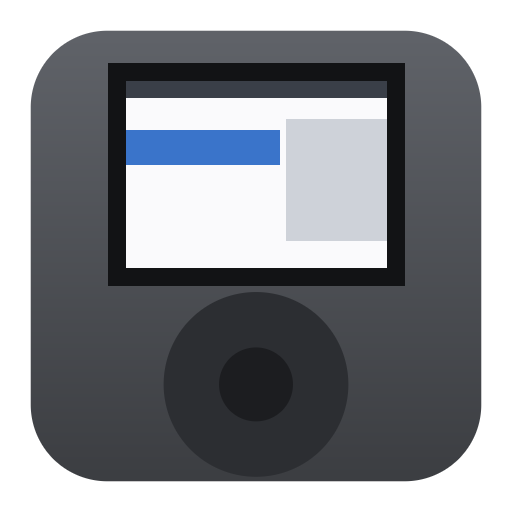
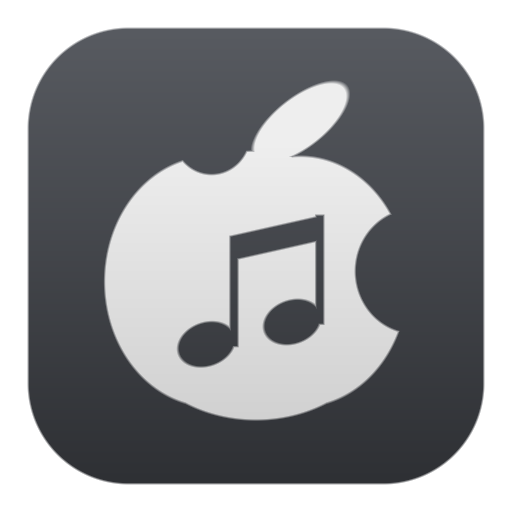
feat: novo icone (maca com nota musical) e exclusao de musica individual
Icone: silhueta de maca com mordida e folha, com a nota musical vazada no
centro sobre o fundo grafite do aparelho. Gerado por codigo (campos de
distancia com antialiasing), sem dependencia de editor grafico. Aplicado
nos quatro tamanhos, incluindo o apple-touch-icon de 180 px usado na tela
de inicio do iPhone.

Exclusao de faixa: segurar o botao central sobre uma musica agora abre um
menu de acoes ("Adicionar a Lista Rapida" e "Apagar Musica") em vez de
adicionar direto a playlist. A exclusao passa por confirmacao, remove o
arquivo e a faixa do IndexedDB, tira a musica de todas as playlists e
reconstroi a lista mantendo a posicao da selecao.

player.forgetTrack() retira a faixa da fila em execucao: se for a que esta
tocando, a reproducao para, a URL de objeto e liberada e a tela Tocando
Agora volta ao estado vazio; se nao for, a fila e reconstruida preservando
a musica atual.

Verificado no Chromium com gestos reais: toque longo abre o menu, cancelar
volta sem apagar, confirmar remove a faixa da lista e do banco, a selecao
e mantida, o player para e a mudanca persiste apos recarregar. Testes do
parser de tags e o teste ponta a ponta original seguem passando.

Claude-Session: https://claude.ai/code/session_016mkjsLRngwnqNpgZttN2s1

diff --git a/js/nav.js b/js/nav.js
@@ -59,6 +59,24 @@ export function pop() {
   return true;
 }
 
+/** Profundidade atual da pilha (a tela do topo esta nesta posicao). */
+export const depth = () => stack.length;
+
+/** Descarta telas ate a profundidade alvo sem remontar (uso interno). */
+function popSilent(target) {
+  while (stack.length > Math.max(1, target)) {
+    const v = stack.pop();
+    v.root.remove();
+    if (v.destroy) v.destroy();
+  }
+}
+
+/** Volta ate a profundidade alvo e remonta a tela que ficou no topo. */
+export function popTo(target) {
+  popSilent(target);
+  if (stack.length) mount(current());
+}
+
 export function home() {
   while (stack.length > 1) {
     const v = stack.pop();
@@ -317,26 +335,70 @@ export function buildSongsMenu() {
  */
 function buildTrackList(ids, title, opts) {
   const o = opts || {};
-  const items = ids.map((id, i) => {
+  const live = ids.filter((id) => lib.getTrack(id));
+
+  const items = live.map((id, i) => {
     const t = lib.getTrack(id);
-    if (!t) return null;
     return {
       label: t.title,
       value: o.showArtist ? t.artist : fmtTime(t.duration),
       num: o.numbered ? (t.trackNo || i + 1) : undefined,
       playing: player.state.trackId === id,
       preview: { art: t.albumKey, t1: t.title, t2: `${t.artist} · ${t.album}` },
-      onSelect: () => playTracks(ids, i, title),
-      onPlay: () => playTracks(ids, i, title),
-      onHold: () => addToOnTheGo(t),
+      onSelect: () => playTracks(live, i, title),
+      onPlay: () => playTracks(live, i, title),
+      // segurar o centro abre as acoes da faixa (a lista esta no topo agora)
+      onHold: () => push(buildTrackActions(t, live, i, title, o, depth())),
     };
-  }).filter(Boolean);
+  });
 
   return createListView({
     title, items,
+    selected: o.selected || 0,
     emptyTitle: 'Sem musicas',
     emptyText: 'Adicione musicas em Ajustes > Adicionar Musicas.',
   });
+}
+
+/* ------------------------------------------------- acoes sobre a faixa */
+
+function buildTrackActions(track, ids, idx, title, opts, listDepth) {
+  const items = [
+    {
+      label: `Adicionar a ${ONTHEGO}`,
+      onSelect: () => { addToOnTheGo(track); pop(); },
+    },
+    {
+      label: 'Apagar Musica',
+      chev: true,
+      onSelect: () => push(buildConfirm(
+        'Apagar esta musica?', 'Apagar',
+        () => removeTrackAndRefresh(track, ids, idx, title, opts, listDepth)
+      )),
+    },
+  ];
+  return createListView({ title: track.title, items, split: false });
+}
+
+/**
+ * Apaga a faixa da biblioteca e volta para a lista, ja sem ela.
+ * As telas anteriores (albuns, artistas) sao remontadas ao serem abertas
+ * de novo, e faixas ausentes sao sempre filtradas na abertura da lista.
+ */
+async function removeTrackAndRefresh(track, ids, idx, title, opts, listDepth) {
+  player.forgetTrack(track.id);
+  await lib.removeTrack(track.id);
+
+  const remaining = ids.filter((id) => id !== track.id && lib.getTrack(id));
+  if (!remaining.length) {
+    popTo(listDepth - 1);            // a lista ficou vazia: sobe um nivel
+  } else {
+    popSilent(listDepth - 1);        // descarta confirmacao, acoes e lista antiga
+    push(buildTrackList(remaining, title, Object.assign({}, opts, {
+      selected: Math.min(idx, remaining.length - 1),
+    })));
+  }
+  toast('Musica apagada');
 }
 
 async function addToOnTheGo(track) {
@@ -386,7 +448,7 @@ export function buildPlaylistsMenu() {
   return createListView({
     title: 'Playlists', items,
     emptyTitle: 'Sem playlists',
-    emptyText: `Segure o botao central sobre uma musica para criar a "${ONTHEGO}".`,
+    emptyText: `Segure o botao central sobre uma musica e escolha "Adicionar a ${ONTHEGO}".`,
   });
 }
 

diff --git a/js/audio.js b/js/audio.js
@@ -198,6 +198,41 @@ export async function prev() {
   await loadCurrent(true);
 }
 
+/**
+ * Retira uma faixa da fila atual. Usada quando a musica e apagada da
+ * biblioteca: se for a que esta tocando, a reproducao para e a tela
+ * "Tocando Agora" volta ao estado vazio.
+ */
+export function forgetTrack(id) {
+  if (!state.queue.includes(id)) return;
+
+  if (state.trackId === id) {
+    el.pause();
+    state.playing = false;
+    el.removeAttribute('src');
+    try { el.load(); } catch (_) { /* noop */ }
+    if (objectUrl) { URL.revokeObjectURL(objectUrl); objectUrl = null; }
+    state.trackId = null;
+  }
+
+  state.queue = state.queue.filter((q) => q !== id);
+
+  if (!state.queue.length) {
+    state.order = [];
+    state.pos = -1;
+    state.trackId = null;
+  } else {
+    // mantem a faixa atual na fila reconstruida, quando ela sobreviveu
+    const keep = state.trackId ? state.queue.indexOf(state.trackId) : -1;
+    buildOrder(keep >= 0 ? keep : 0);
+    if (keep < 0) state.trackId = null;
+  }
+
+  emit('track', currentTrack());
+  emit('state', state);
+  scheduleSave();
+}
+
 export function seek(seconds) {
   if (!Number.isFinite(seconds) || !el.duration) return;
   el.currentTime = Math.max(0, Math.min(el.duration, seconds));

diff --git a/README.md b/README.md
@@ -66,7 +66,7 @@ Arquivos que o navegador não consegue decodificar são importados mas sinalizad
 | Girar em **Tocando Agora** | Volume |
 | **Centro** | Selecionar / tocar |
 | **Centro** em Tocando Agora | Alterna: Volume → Avançar/Retroceder → Avaliação (estrelas) |
-| **Centro** (segurar) sobre uma música | Adiciona à playlist **Lista Rápida** |
+| **Centro** (segurar) sobre uma música | Abre as ações da faixa: **Adicionar à Lista Rápida** ou **Apagar Música** |
 | **MENU** | Voltar |
 | **MENU** (segurar) | Volta direto ao menu principal |
 | **▶❙❙** | Tocar / pausar |
@@ -156,6 +156,8 @@ O quota do Safari para um site é de alguns GB e varia com o espaço livre do ap
 
 Fotos, vídeos, jogos, notas, rádio, sincronização com iTunes e equalizador não foram implementados. Playlists têm criação via "Lista Rápida" (segurar o botão central sobre uma música); não há editor completo de playlists.
 
+Ao apagar uma música, a lista aberta é reconstruída na hora. Telas já empilhadas atrás dela (a lista de álbuns, por exemplo) só refletem a mudança quando abertas de novo — faixas ausentes são sempre filtradas, então nada quebra, apenas a contagem exibida pode ficar desatualizada até voltar ao menu.
+
 ---
 
 ## 6. Publicação
@@ -194,6 +196,7 @@ O projeto inclui dois níveis de verificação, executados durante o desenvolvim
 | Prioridade | Item | Motivo |
 |---|---|---|
 | Alta | Editor de playlists completo | Única funcionalidade central do iPod ainda parcial |
+| Média | Apagar álbum ou artista inteiro | Hoje a exclusão é faixa a faixa ou biblioteca inteira |
 | Alta | Importar pasta inteira (`webkitdirectory`) | Reduz o atrito de montar a biblioteca no desktop |
 | Média | Equalizador (Web Audio `BiquadFilter`) | Presente no original; baixo custo de implementação |
 | Média | Exportar/importar a biblioteca | Mitiga o risco de perda descrito em 5.3 |
